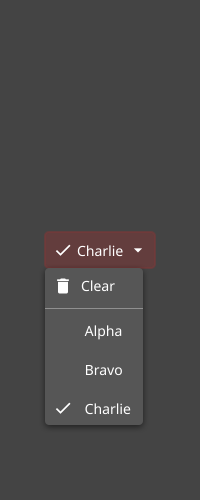
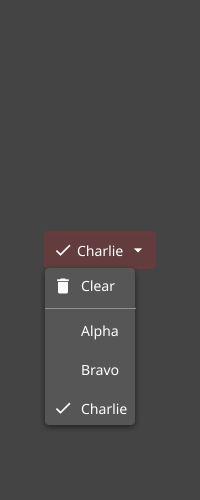
test: add test for FilterChipSelect item select

Changed region(s): [[0.39, 0.54, 0.69, 0.87], [0.39, 0.63, 0.63, 0.69], [0.39, 0.72, 0.63, 0.75]]

diff --git a/widget/filterchipselect_test.go b/widget/filterchipselect_test.go
@@ -8,6 +8,7 @@ import (
 	"fyne.io/fyne/v2/test"
 	"github.com/stretchr/testify/assert"
 
+	"github.com/ErikKalkoken/fyne-kx/internal/testutil"
 	kxwidget "github.com/ErikKalkoken/fyne-kx/widget"
 )
 
@@ -327,4 +328,30 @@ func TestFilterChipSelect_SearchBoxContainsSelectedWhenNoOptions(t *testing.T) {
 	test.Tap(c)
 
 	test.AssertImageMatches(t, "filterchipselect/search_roque_option_2.png", w.Canvas().Capture())
+}
+
+func TestFilterChipSelect_CanSelectItem(t *testing.T) {
+	// given
+	test.NewTempApp(t)
+
+	var callCount int
+	var gotOption string
+
+	c := kxwidget.NewFilterChipSelect("Test", []string{"Bravo", "Alpha"}, func(selected string) {
+		callCount++
+		gotOption = selected
+	})
+	w := test.NewWindow(container.NewVBox(c))
+	defer w.Close()
+	w.Resize(fyne.NewSize(300, 400))
+
+	// when
+	test.Tap(c)
+	testutil.TapMenuItem(t, w, "Bravo")
+
+	// then
+	assert.Equal(t, 1, callCount)
+	assert.Equal(t, "Bravo", gotOption)
+	assert.Equal(t, "Bravo", c.Selected)
+
 }

diff --git a/widget/filterchipselect.go b/widget/filterchipselect.go
@@ -138,7 +138,7 @@ func (w *FilterChipSelect) showDropDownMenu() {
 			})
 		}
 		for _, o := range options {
-			it := fyne.NewMenuItem(" "+o+" ", func() {
+			it := fyne.NewMenuItem(o, func() {
 				w.SetSelected(o)
 			})
 			if w.Selected != "" {
@@ -287,7 +287,6 @@ func (w *FilterChipSelect) showSearchDialog(window fyne.Window) {
 	d.Show()
 	window.Canvas().Focus(entry)
 }
-
 
 func (w *FilterChipSelect) CreateRenderer() fyne.WidgetRenderer {
 	w.updateState()
